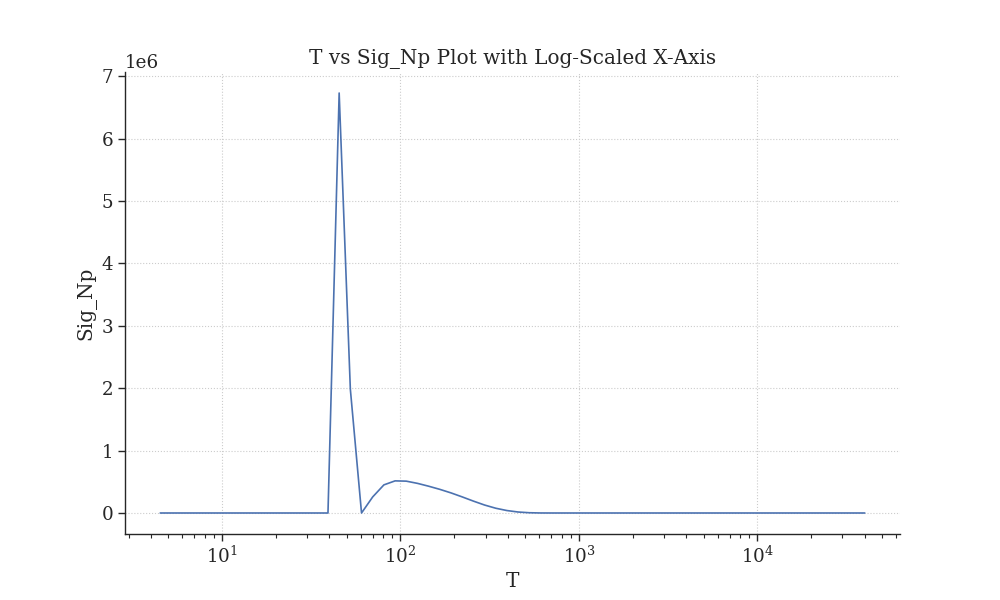
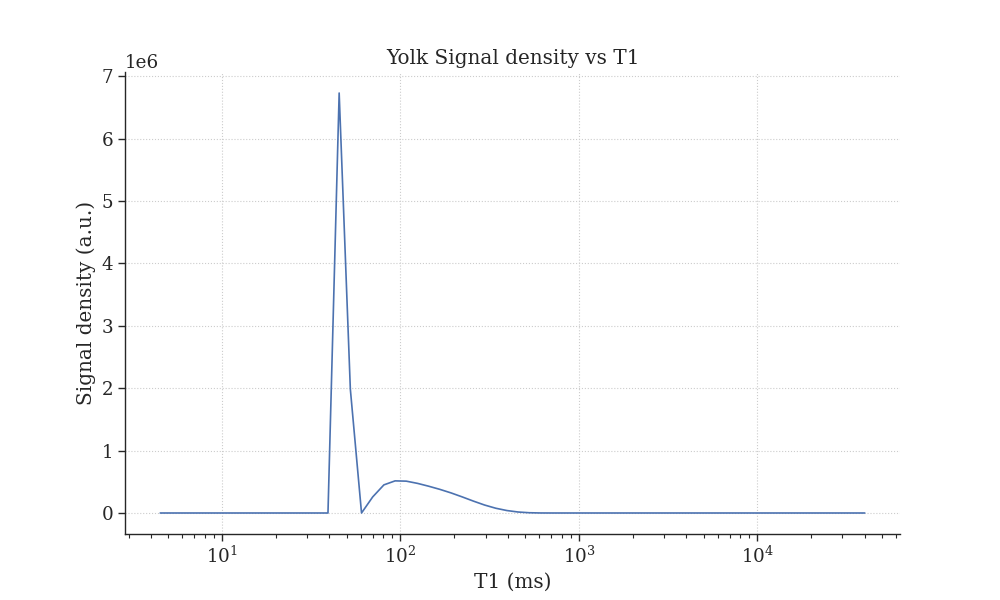
Updated plots with proper title and axes labels

Changed region(s): [[0.31, 0.06, 0.713, 0.12], [0.062, 0.33, 0.093, 0.69], [0.465, 0.96, 0.558, 0.99]]

diff --git a/Lab1_T1&T2_weighting/T1T2fromUpen.py b/Lab1_T1&T2_weighting/T1T2fromUpen.py
@@ -51,7 +51,7 @@ def T2_estimate_weighted_avg(table):
     return T2
 
 
-def T2_plots(table, figure_name1, figure_name2):
+def T2_plots(table, title1, figure_name1, title2,  figure_name2):
     """
     Creates two figures related to T2:
         - figure1 = UPEN output after the inversion
@@ -84,11 +84,11 @@ def T2_plots(table, figure_name1, figure_name2):
     plt.figure(figsize=(10, 6))
     plt.plot(table["T"], table["Sig_Np"])
     plt.xscale('log')
-    plt.xlabel("T")
-    plt.ylabel("Sig_Np")
+    plt.xlabel("T2 (ms)")
+    plt.ylabel("Signal density (a.u.)")
     plt.ticklabel_format(style='sci', axis='y', scilimits=(0,0)) 
 
-    plt.title("Plot with Log-Scaled X-Axis")
+    plt.title(title1)
     plt.grid(True)
 
     filename1 = figure_name1
@@ -127,11 +127,11 @@ def T2_plots(table, figure_name1, figure_name2):
     sns.regplot(data=table, x="SigT", y="Sig", fit_reg=False, label="Data points")
     plt.plot(x_space, y_pred, color='r', linestyle='-', linewidth=2, label=f'y = e^({intercept:.5f} + {slope:.5f}x)')
     plt.fill_between(x_space, lower_bound, upper_bound, color='r', alpha=0.2, label='95% Confidence Interval')
-    plt.xlabel("SigT")
-    plt.ylabel("Sig")
+    plt.xlabel("TE (ms)")
+    plt.ylabel("Signal (a.u.)")
     plt.ticklabel_format(style='sci', axis='y', scilimits=(0,0)) 
 
-    plt.title("Scatter Plot with Log-Transformed Y-Axis and Linear Regression")
+    plt.title(title2)
     plt.yscale('log')
     plt.legend()
     plt.grid(True)
@@ -153,11 +153,11 @@ def T1_estimate_weighted_avg(table):
     return T1
 
 
-def fnc(x, b1, b2, b3):
-    return b1 * (1 - (1 + b3) * np.exp(b2 * x))
+def fnc(x, b1, b2):
+    return b1 * (1 - 2 * np.exp(b2 * x))
 
 
-def T1_plots(table, figure_name1, figure_name2):
+def T1_plots(table, title1, figure_name1, title2, figure_name2):
 
     # Converting columns to numeric types
     table["Sig_Np"] = pd.to_numeric(table["Sig_Np"], errors='coerce')
@@ -177,11 +177,11 @@ def T1_plots(table, figure_name1, figure_name2):
     plt.figure(figsize=(10, 6))
     plt.plot(table["T"], table["Sig_Np"])
     plt.xscale('log')
-    plt.xlabel("T")
-    plt.ylabel("Sig_Np")
+    plt.xlabel("T1 (ms)")
+    plt.ylabel("Signal density (a.u.)")
     plt.ticklabel_format(style='sci', axis='y', scilimits=(0,0)) 
 
-    plt.title("T vs Sig_Np Plot with Log-Scaled X-Axis")
+    plt.title(title1)
     plt.grid(True)
     plt.savefig(os.path.join(FIGURE_PATH, figure_name1))
 
@@ -192,13 +192,13 @@ def T1_plots(table, figure_name1, figure_name2):
     sns.regplot(x = time, y = signal, fit_reg=False, label="Data points")
     #plt.scatter(time, signal)
     
-    B0 = [1.5e06, -1/1000, 0.8]
+    B0 = [1.5e06, -1/1000]
     popt, _ = curve_fit(fnc, time, signal, p0=B0)
     plt.plot(time, fnc(time, *popt), color='r', label='Fitted curve')
-    plt.xlabel("SigT")
-    plt.ylabel("Sig")
+    plt.xlabel("IT (ms)")
+    plt.ylabel("Signal (a.u.)")
     plt.ticklabel_format(style='sci', axis='y', scilimits=(0,0)) 
-    plt.title("Non-linear Model Fit")
+    plt.title(title2)
     plt.legend()
     plt.grid(True)
     plt.savefig(os.path.join(FIGURE_PATH, figure_name2))
@@ -236,10 +236,10 @@ def inversion_recovery_plots(table_yolk, table_albumen, figure_name):
     signal_albumen = signal_albumen - np.min(signal_albumen) / 2
     sns.regplot(x = time_albumen, y = signal_albumen, fit_reg=False, label="Albumen data points")
 
-    plt.xlabel("SigT")
-    plt.ylabel("Sig")
+    plt.xlabel("IT (ms)")
+    plt.ylabel("Signal (a.u.)")
     plt.ticklabel_format(style='sci', axis='y', scilimits=(0,0)) 
-    plt.title("Non-linear Model Fit")
+    plt.title("Inversion Recovery data for yolk and albumen")
     plt.legend()
     plt.grid(True)
     plt.savefig(os.path.join(FIGURE_PATH, figure_name))
@@ -251,15 +251,19 @@ if __name__ == '__main__':
     table_IR_yolk = read_table(IR_YOLK)
 
     
-    T2_plots(table_CPMG_albumen, "ALBUMEN_T2_Upen_Inverted", "ALBUMEN_T2_Upen_output&fit")
+    T2_plots(table_CPMG_albumen, "Albumen Signal density vs T2", "ALBUMEN_T2_Upen_Inverted",
+              "Albumen Signal vs Echo Time", "ALBUMEN_T2_Upen_output&fit")
     T2 = T2_estimate_weighted_avg(table_CPMG_albumen)
     print(T2)
-    T2_plots(table_CPMG_yolk, "YOLK_T2_Upen_Inverted", "YOLK_T2_Upen_output&fit")
+    T2_plots(table_CPMG_yolk, "Yolk Signal density vs T2", "YOLK_T2_Upen_Inverted",
+             "Albumen Signal vs Echo Time", "YOLK_T2_Upen_output&fit")
     T2_estimate_weighted_avg(table_CPMG_yolk)
 
-    T1_plots(table_IR_albumen, "ALBUMEN_T1_Upen_Inverted", "ALBUMEN_T1_Upen_output&fit")
+    T1_plots(table_IR_albumen, "Albumen Signal density vs T1", "ALBUMEN_T1_Upen_Inverted", 
+             "Albumen Signal vs Inversion Time", "ALBUMEN_T1_Upen_output&fit")
     T1_estimate_weighted_avg(table_IR_albumen)
-    T1_plots(table_IR_yolk, "YOLK_T1_Upen_Inverted", "YOLK_T1_Upen_output&fit")
+    T1_plots(table_IR_yolk, "Yolk Signal density vs T1", "YOLK_T1_Upen_Inverted", 
+             "Yolk Signal vs Inversion Time", "YOLK_T1_Upen_output&fit")
     T1_estimate_weighted_avg(table_IR_yolk)
 
     inversion_recovery_plots(table_IR_yolk, table_IR_albumen, "IR_scatter_plots")
